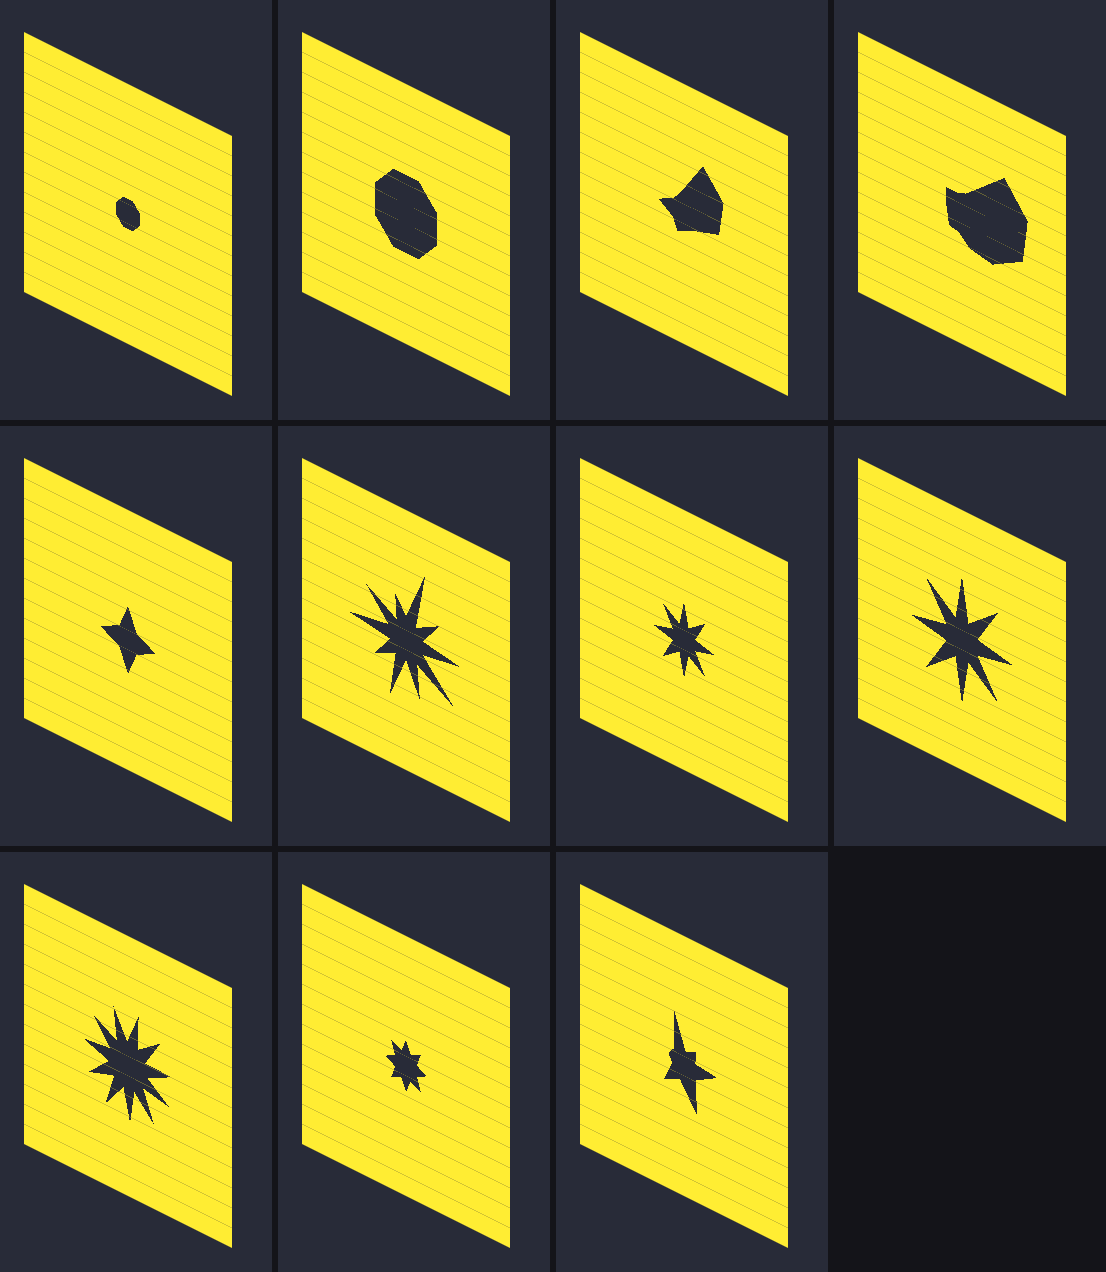
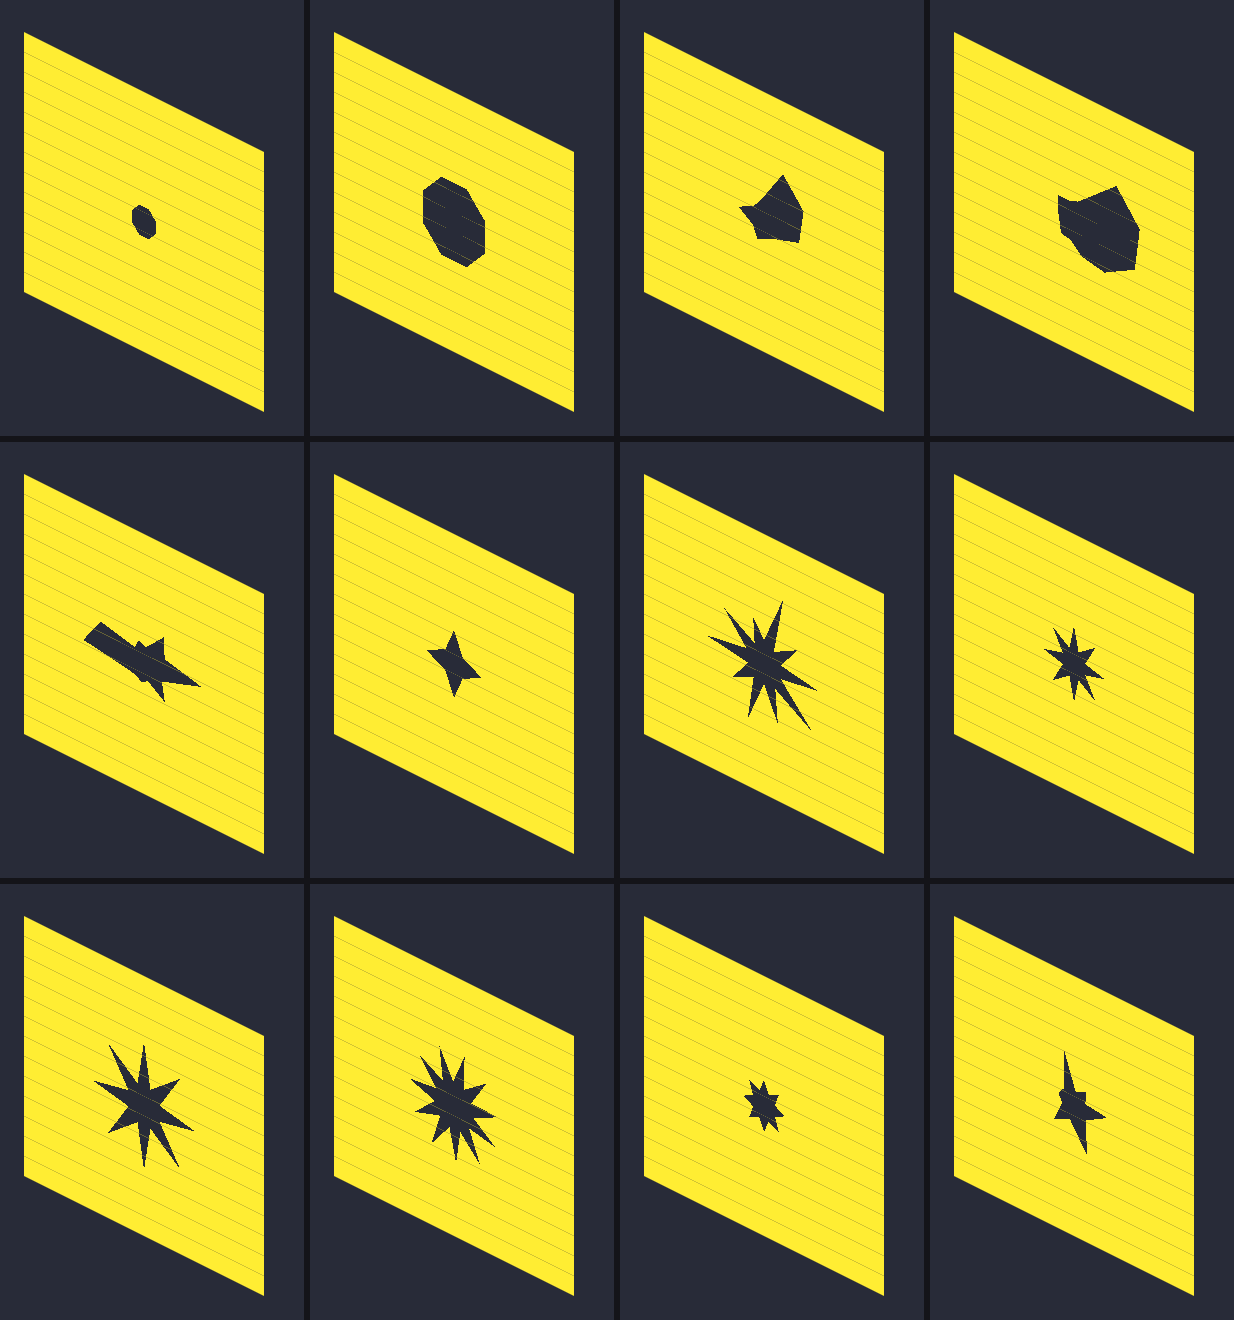
[CRACK-04] Glass — a twelfth opening, and the one shape class the other eleven lacked
Director, 2026-09-04: *"Ficou ótimo, mas faz mais uma só pra ter 12."*

`gash_wide`. The other eleven are all roughly RADIAL — a round punched through —
so twelve of those would read as twelve sizes of one idea. This one runs long on
one axis and stays tight on the other, sides jagged rather than parallel: a pane
that split along a line. Footprint 9x4 against everything else's square-ish 3x3
to 8x8, which is the difference stated as a number rather than as a squint.

Pools are 6 small / 6 large now.

The capture pane went 13 -> 15 runs so a 9-cell footprint keeps its clearance —
a hole touching the pane's own edge would be measuring the pane.

50 selftests clean / 0 failed (72 assertions in the glass suite, [15] covering
all twelve openings through the real walk); `project_lint` clean;
`check_invariants` clean; CODEMAP regenerated.

Evidence: `glass_openings_family_2026-09-04.png`, twelve panels, no empty slot.

diff --git a/tools/persistent/CODEMAP.md b/tools/persistent/CODEMAP.md
@@ -8,7 +8,7 @@
 > Design rationale and the inviolable rules live in `CLAUDE.md`
 > (hand-authored). This file is the mechanical mirror of the code.
 
-**232 scripts · 79047 lines total** (under `godot/scripts/`)
+**232 scripts · 79056 lines total** (under `godot/scripts/`)
 
 ## Index
 
@@ -2077,7 +2077,7 @@ extends `Node2D` · 43 lines
 
 ### `glass_opening.gd`
 
-`class_name GlassOpening` · 309 lines
+`class_name GlassOpening` · 318 lines
 
 `godot/scripts/systems/destruction/glass_opening.gd`
 
@@ -2087,8 +2087,8 @@ extends `Node2D` · 43 lines
 - `FacadeSamplerClass` = `preload("res://godot/scripts/systems/facade_sampler.gd")`
 - `COVERAGE_SAMPLES` = `33`
 - `MIN_VALLEY` = `0.708`
-- `FAMILY` = `{ ## A — "bico fundo": the long-spiked star, the silhouette the build has been ## making since CRACK-03. "star_deep":    {"lobes": 8, "r_out": 1.90, "r_in": 0.75, "phase": 0.0, "size": "small"}, ## B — "bico raso": the same star pulled in to half the reach. "star_shallow": {"lobes": 8, "r_out": 1.30, "r_in": 0.74, "phase": 0.0, "size": "small"}, ## C — "entalhe em V, cantos ficam": four points on the orthogonals only, so ## the diagonal corners of the struck cell's neighbours are never reached. "notch_v":      {"lobes": 4, "r_out": 1.70, "r_in": 0.76, "phase": 0.0, "size": "small"}, ## D — "chanfro 45 graus": the compact one. `r_in = r_out · cos(π/8)` makes it ## a regular octagon rather than a star. "chamfer_45":   {"lobes": 8, "r_out": 0.80, "r_in": 0.739, "phase": 0.3927, "size": "small"}, ## The large members. Same language, more reach — a rifle or a shotgun breach ## is not a different mechanism, only a bigger polygon. "star_deep_wide":  {"lobes": 8, "r_out": 3.20, "r_in": 1.05, "phase": 0.0, "size": "large"}, "star_ragged_wide": {"lobes": 11, "r_out": 2.80, "r_in": 1.20, "phase": 0.19, "size": "large"}, "chamfer_45_wide": {"lobes": 8, "r_out": 2.10, "r_in": 1.94, "phase": 0.3927, "size": "large"}, ## ── THE IRREGULAR MEMBERS (Director, 2026-09-04: *"algumas mais esquisitas, ## com um chunk grande faltando, angulos irregulares"*, on three references — ## a real bullet impact and two shard renders). ────────────────────────── ## ## ⚠ EVERY RADIUS STILL CLEARS `MIN_VALLEY`. An asymmetric opening is one ## whose LARGE side is much larger, never one whose small side vanishes: the ## struck voxel is gone whole either way, so a radius under 0.708 would ask ## to keep a corner of it. [16] holds the line for these the same as the rest. ## ## `chunk_bite` — one big smooth chunk gone from a single quadrant, the rest a ## tight ragged rim. The asymmetry IS the shape. ## ## ⚠ THE READ COMES FROM THE JUMP BETWEEN ADJACENT RADII, NOT FROM THE RANGE. ## The first pass at these two used 16 vertices easing smoothly from 4.2 down ## to 1.0, a 4:1 range — and both rendered as ROUND BLOBS ## (`glass_openings_family_2026-09-04.png`, first version). Every reference the ## Director sent is made of long STRAIGHT fracture edges, and a straight edge ## is what you get when two adjacent vertices are far apart in radius: the ## chord between them cuts across. Fewer vertices, bigger jumps. "chunk_bite": {"size": "small", "phase": 0.55, "radii": [ 2.90, 3.10, 1.00, 0.85, 1.60, 0.80, 1.10, 0.78, 0.90, 2.20]}, ## `star_wild` — irregular in BOTH axes: spikes of unequal length at unequal ## angles, so no two arms of the hole read as a pair. "star_wild": {"size": "small", "phase": 0.11, "radii": [ 2.10, 0.80, 1.30, 0.75, 2.60, 0.90, 1.00, 0.76, 1.70, 0.80, 2.30, 0.85], "angles": [ 0.00, 0.06, 0.13, 0.21, 0.27, 0.35, 0.44, 0.51, 0.60, 0.68, 0.79, 0.90]}, ## `shard_fan_wide` — the many-thin-spikes read of the third reference: a ## dense fan of long slivers, each a different length. "shard_fan_wide": {"size": "large", "phase": 0.0, "radii": [ 3.40, 1.10, 2.60, 1.05, 3.90, 1.20, 2.20, 1.00, 3.10, 1.15, 3.60, 1.05, 2.40, 1.10, 3.30, 1.00, 2.80, 1.20, 3.70, 1.10]}, ## `crescent_wide` — the first reference's silhouette: a huge chunk taken out ## of one side with a long sweeping edge, the far side barely opened. "crescent_wide": {"size": "large", "phase": 0.30, "radii": [ 4.30, 3.90, 1.15, 1.00, 1.40, 1.05, 0.95, 1.20, 1.00, 1.60, 2.60, 3.90]}, }`
-- `POOLS` = `{ "small": ["star_deep", "star_shallow", "notch_v", "chamfer_45", "chunk_bite", "star_wild"], "large": ["star_deep_wide", "star_ragged_wide", "chamfer_45_wide", "shard_fan_wide", "crescent_wide"], }`
+- `FAMILY` = `{ ## A — "bico fundo": the long-spiked star, the silhouette the build has been ## making since CRACK-03. "star_deep":    {"lobes": 8, "r_out": 1.90, "r_in": 0.75, "phase": 0.0, "size": "small"}, ## B — "bico raso": the same star pulled in to half the reach. "star_shallow": {"lobes": 8, "r_out": 1.30, "r_in": 0.74, "phase": 0.0, "size": "small"}, ## C — "entalhe em V, cantos ficam": four points on the orthogonals only, so ## the diagonal corners of the struck cell's neighbours are never reached. "notch_v":      {"lobes": 4, "r_out": 1.70, "r_in": 0.76, "phase": 0.0, "size": "small"}, ## D — "chanfro 45 graus": the compact one. `r_in = r_out · cos(π/8)` makes it ## a regular octagon rather than a star. "chamfer_45":   {"lobes": 8, "r_out": 0.80, "r_in": 0.739, "phase": 0.3927, "size": "small"}, ## The large members. Same language, more reach — a rifle or a shotgun breach ## is not a different mechanism, only a bigger polygon. "star_deep_wide":  {"lobes": 8, "r_out": 3.20, "r_in": 1.05, "phase": 0.0, "size": "large"}, "star_ragged_wide": {"lobes": 11, "r_out": 2.80, "r_in": 1.20, "phase": 0.19, "size": "large"}, "chamfer_45_wide": {"lobes": 8, "r_out": 2.10, "r_in": 1.94, "phase": 0.3927, "size": "large"}, ## ── THE IRREGULAR MEMBERS (Director, 2026-09-04: *"algumas mais esquisitas, ## com um chunk grande faltando, angulos irregulares"*, on three references — ## a real bullet impact and two shard renders). ────────────────────────── ## ## ⚠ EVERY RADIUS STILL CLEARS `MIN_VALLEY`. An asymmetric opening is one ## whose LARGE side is much larger, never one whose small side vanishes: the ## struck voxel is gone whole either way, so a radius under 0.708 would ask ## to keep a corner of it. [16] holds the line for these the same as the rest. ## ## `chunk_bite` — one big smooth chunk gone from a single quadrant, the rest a ## tight ragged rim. The asymmetry IS the shape. ## ## ⚠ THE READ COMES FROM THE JUMP BETWEEN ADJACENT RADII, NOT FROM THE RANGE. ## The first pass at these two used 16 vertices easing smoothly from 4.2 down ## to 1.0, a 4:1 range — and both rendered as ROUND BLOBS ## (`glass_openings_family_2026-09-04.png`, first version). Every reference the ## Director sent is made of long STRAIGHT fracture edges, and a straight edge ## is what you get when two adjacent vertices are far apart in radius: the ## chord between them cuts across. Fewer vertices, bigger jumps. "chunk_bite": {"size": "small", "phase": 0.55, "radii": [ 2.90, 3.10, 1.00, 0.85, 1.60, 0.80, 1.10, 0.78, 0.90, 2.20]}, ## `star_wild` — irregular in BOTH axes: spikes of unequal length at unequal ## angles, so no two arms of the hole read as a pair. "star_wild": {"size": "small", "phase": 0.11, "radii": [ 2.10, 0.80, 1.30, 0.75, 2.60, 0.90, 1.00, 0.76, 1.70, 0.80, 2.30, 0.85], "angles": [ 0.00, 0.06, 0.13, 0.21, 0.27, 0.35, 0.44, 0.51, 0.60, 0.68, 0.79, 0.90]}, ## `shard_fan_wide` — the many-thin-spikes read of the third reference: a ## dense fan of long slivers, each a different length. "shard_fan_wide": {"size": "large", "phase": 0.0, "radii": [ 3.40, 1.10, 2.60, 1.05, 3.90, 1.20, 2.20, 1.00, 3.10, 1.15, 3.60, 1.05, 2.40, 1.10, 3.30, 1.00, 2.80, 1.20, 3.70, 1.10]}, ## `crescent_wide` — the first reference's silhouette: a huge chunk taken out ## of one side with a long sweeping edge, the far side barely opened. "crescent_wide": {"size": "large", "phase": 0.30, "radii": [ 4.30, 3.90, 1.15, 1.00, 1.40, 1.05, 0.95, 1.20, 1.00, 1.60, 2.60, 3.90]}, ## `gash_wide` — the one shape class the other eleven did not have: ELONGATED. ## Every other member is roughly radial, so a map of them reads as twelve sizes ## of the same idea. This one runs long on one axis and stays tight on the ## other, with the sides jagged rather than parallel — a pane that split along ## a line rather than a round that punched through it. "gash_wide": {"size": "large", "phase": 0.08, "radii": [ 3.60, 1.50, 2.20, 0.90, 1.10, 0.85, 2.90, 3.80, 1.30, 0.90, 1.00, 0.80, 1.90, 1.20]}, }`
+- `POOLS` = `{ "small": ["star_deep", "star_shallow", "notch_v", "chamfer_45", "chunk_bite", "star_wild"], "large": ["star_deep_wide", "star_ragged_wide", "chamfer_45_wide", "shard_fan_wide", "crescent_wide", "gash_wide"], }`
 
 ---
 
@@ -3645,7 +3645,7 @@ extends `SceneTree` · 243 lines
 - `VoxelRendererClass` = `preload("res://godot/scripts/geometry/voxel_renderer.gd")`
 - `GeometryCoordsClass` = `preload("res://godot/scripts/geometry/geometry_coords.gd")`
 - `GlassOpeningClass` = `preload("res://godot/scripts/systems/destruction/glass_opening.gd")`
-- `RUNS` = `13`
+- `RUNS` = `15`
 - `LEVELS` = `13`
 - `OUT_DIR` = `"res://Screenshots/history"`
 - `BG` = `Color(0.16, 0.17, 0.22, 1.0)`
